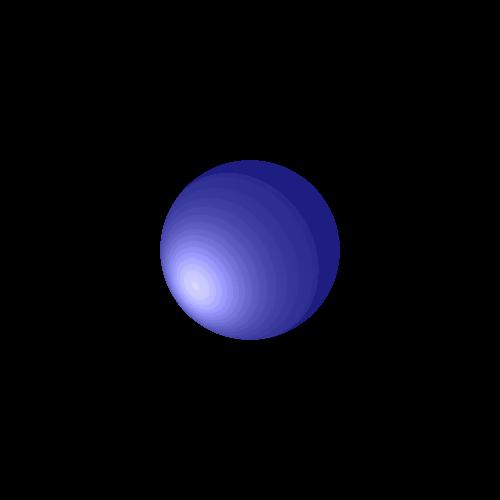
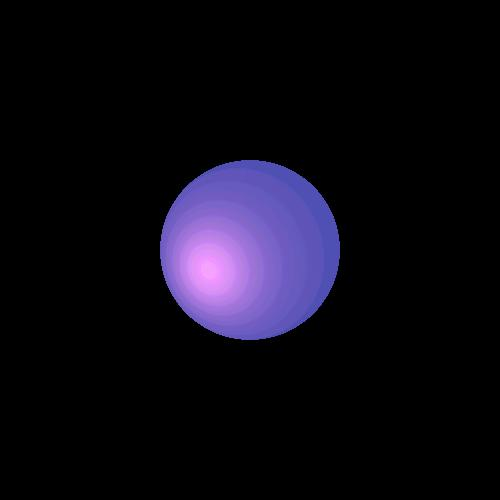
some tests

Changed region(s): [[0.3, 0.3, 0.69, 0.69]]

diff --git a/src/unittests/RenderTest.java b/src/unittests/RenderTest.java
@@ -52,8 +52,8 @@ public class RenderTest {
 			_scene.setCamera(new Camera(new Point3D(0,0,0), new Vector(0,1,0), new Vector(0,0,-1)));
 			_scene.setAmbientLight(new AmbientLight(new Color(30,30,30), 1));
 			
-			_scene.addLight(new PointLight(new Color(255,255,255),new Point3D(-3,-2,-2), 1, 0, 1.7));
-			_scene.addGeometry(new Sphere(6, new Point3D(0, 0, -10), new Color(0,0,100), new Material(1,1,1)));
+			_scene.addLight(new PointLight(new Color(205,100,105),new Point3D(-2,-1,-2), 1, 1, 2));
+			_scene.addGeometry(new Sphere(6, new Point3D(0, 0, -10), new Color(50,50,150), new Material(1,1,1)));
 			
 		  	//_scene.addGeometry(new Triangle(new Point3D(0, -4, -4), new Point3D(4, 0, -4),new Point3D(4, -4, -4), new Color(30,100,30), new Material(1,1,1)));
 		  	//_scene.addGeometry(new Triangle(new Point3D(0, -4, -4), new Point3D(4, 0, -4),new Point3D(4, -4, -4), new Color(30,100,30), new Material(1,1,1)));
@@ -68,7 +68,7 @@ public class RenderTest {
 	
 	}
 	
-	@Test
+	/*@Test
 	public void SpotLightTest(){
 			int X = 500;
 			int Y = 500;
@@ -80,7 +80,7 @@ public class RenderTest {
 			_scene.setCamera(new Camera(new Point3D(0,0,0), new Vector(0,1,0), new Vector(0,0,-1)));
 			_scene.setAmbientLight(new AmbientLight(new Color(30,30,30), 1));
 			
-			_scene.addLight(new SpotLight(new Color(100,100,100),new Point3D(0,0,0), 1, 0, 1.7,new Point3D(0,0,-10).subtract(new Point3D(0,0,0))));
+			_scene.addLight(new SpotLight(new Color(100,100,255),new Point3D(-3,-2,-2), 1, 0, 1.7,new Point3D(0,0,-10).subtract(new Point3D(-3,-2,-2))));
 			_scene.addGeometry(new Sphere(6, new Point3D(0, 0, -10), new Color(0,0,100), new Material(1,1,1)));
 			
 		  	//_scene.addGeometry(new Triangle(new Point3D(0, -4, -4), new Point3D(4, 0, -4),new Point3D(4, -4, -4), new Color(30,100,30), new Material(1,1,1)));
@@ -94,7 +94,7 @@ public class RenderTest {
 			System.out.println(d2.getTime() - d.getTime());
 			System.out.println("Finish");
 	
-	}
+	}*/
 	
 	
 }

diff --git a/src/elements/SpotLight.java b/src/elements/SpotLight.java
@@ -21,8 +21,6 @@ public class SpotLight extends PointLight implements LightSource{
 	@Override
 	public Color getIntensity(Point3D point) {
 		double d = this._direction.dot_product(this.getL(point));
-		if(d < 0)
-			return new Color(0,0,0);
 		return super.getIntensity(point).scale(d);
 	}
 
